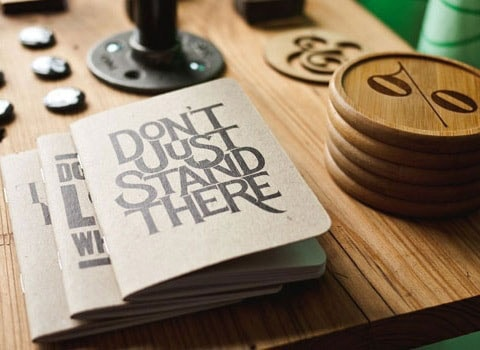
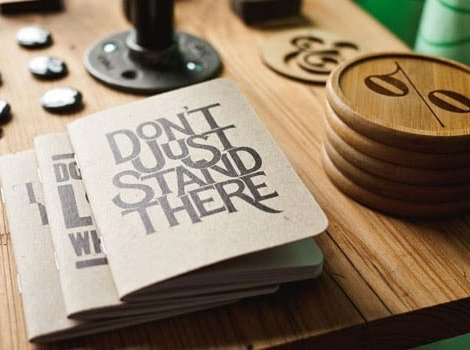
modified gallery images

diff --git a/index.html b/index.html
@@ -78,17 +78,17 @@
     <div class="gallery">
       <div class="wrap-gallery-one">
         <div class="gallery-photo-one">
-          <img src="./images/photo_1.jpg" height="350" alt="photo1">
+          <img class="gallery-images" src="./images/photo_1.jpg" height="350" alt="photo1">
           <div class="overlay"></div>
         </div>
 
         <div class="gallery-photo-two">
-          <img src="./images/photo_2.jpg" height="350" alt="photo2">
+          <img class="gallery-images" src="./images/photo_2.jpg" height="350" alt="photo2">
           <div class="overlay"></div>
         </div>
 
         <div class="gallery-photo-three">
-          <img src="./images/photo_3.jpg" height="350" alt="photo3">
+          <img class="gallery-images" src="./images/photo_3.jpg" height="350" alt="photo3">
           <div class="overlay">
             <h1>Project Name</h1>
             <p>User Interface Design</p>
@@ -96,29 +96,29 @@
         </div>
 
         <div class="gallery-photo-four">
-          <img src="./images/photo_4.jpg" height="350" alt="photo4">
+          <img class="gallery-images" src="./images/photo_4.jpg" height="350" alt="photo4">
           <div class="overlay"></div>
         </div>
       </div>
 
       <div class="wrap-gallery-two">
         <div class="gallery-photo-five">
-          <img src="./images/photo_5.jpg" height="350" alt="photo5">
+          <img class="gallery-images" src="./images/photo_5.jpg" height="350" alt="photo5">
           <div class="overlay"></div>
         </div>
 
         <div class="gallery-photo-six">
-          <img src="./images/photo_6.jpg" height="350" alt="photo6">
+          <img class="gallery-images" src="./images/photo_6.jpg" height="350" alt="photo6">
           <div class="overlay"></div>
         </div>
 
         <div class="gallery-photo-seven">
-          <img src="./images/photo_7.jpg" height="350" alt="photo7">
+          <img class="gallery-images" src="./images/photo_7.jpg" height="350" alt="photo7">
           <div class="overlay"></div>
         </div>
         
         <div class="gallery-photo-eight">
-          <img src="./images/photo_8.jpg" height="350" alt="photo8">
+          <img class="gallery-images" src="./images/photo_8.jpg" height="350" alt="photo8">
           <div class="overlay"></div>
         </div>
       </div>

diff --git a/css/styles.css b/css/styles.css
@@ -15,7 +15,6 @@ html, body {
 }
 
 .hdr-one {
-  width: 100%;
   position: fixed;
   top: 0;
   left:0;
@@ -25,7 +24,8 @@ html, body {
 }
 
 .hdr-wrap {
-  width: 59.3%;
+  width: auto;
+  max-width: 1600px;
   margin: 0 auto;
   vertical-align: top;
 }
@@ -44,8 +44,8 @@ html, body {
 .navbar {
   display: inline-block;
   width: 70%;
+  padding-top: 40px;
   vertical-align: top;
-  margin-top: 40px;
   text-align: right;
 }
 
@@ -54,18 +54,18 @@ html, body {
   margin-top: -15px;
   padding: 0; 
   list-style: none;
-  font: 700 16px/1.2 'Raleway', sans-serif;
+  font: 700 13px/1.3 'Raleway', sans-serif;
   text-transform: uppercase;
 }
   
 .menu-list {
   display: inline-block;
-  margin-right: 20px;
+  margin-right: 60px;
 }
 
 .menu-link {
   text-decoration: none;
-  color: #DFDDDD;
+  color: #ffffff;
 }
  
 .wrap {
@@ -267,18 +267,18 @@ background-repeat: no-repeat;
 }
 
 .gallery {
-  width: 100%;
+  width: auto;
   margin-top: 110px;
   background-color: #2b2e4a;
 }
 
 .wrap-gallery-one {
-  width: 100%;
+  width: auto;
   font-size: 0;
 }
 
 .wrap-gallery-two {
-  width: 100%;
+  width: auto;
   font-size: 0;
 }
 
@@ -292,6 +292,11 @@ background-repeat: no-repeat;
 .gallery-photo-eight {
   position: relative;
   display: inline-block;
+  width: 25%;
+}
+
+.gallery-images {
+  width: 100%;
 }
 
 .gallery-photo-one {
